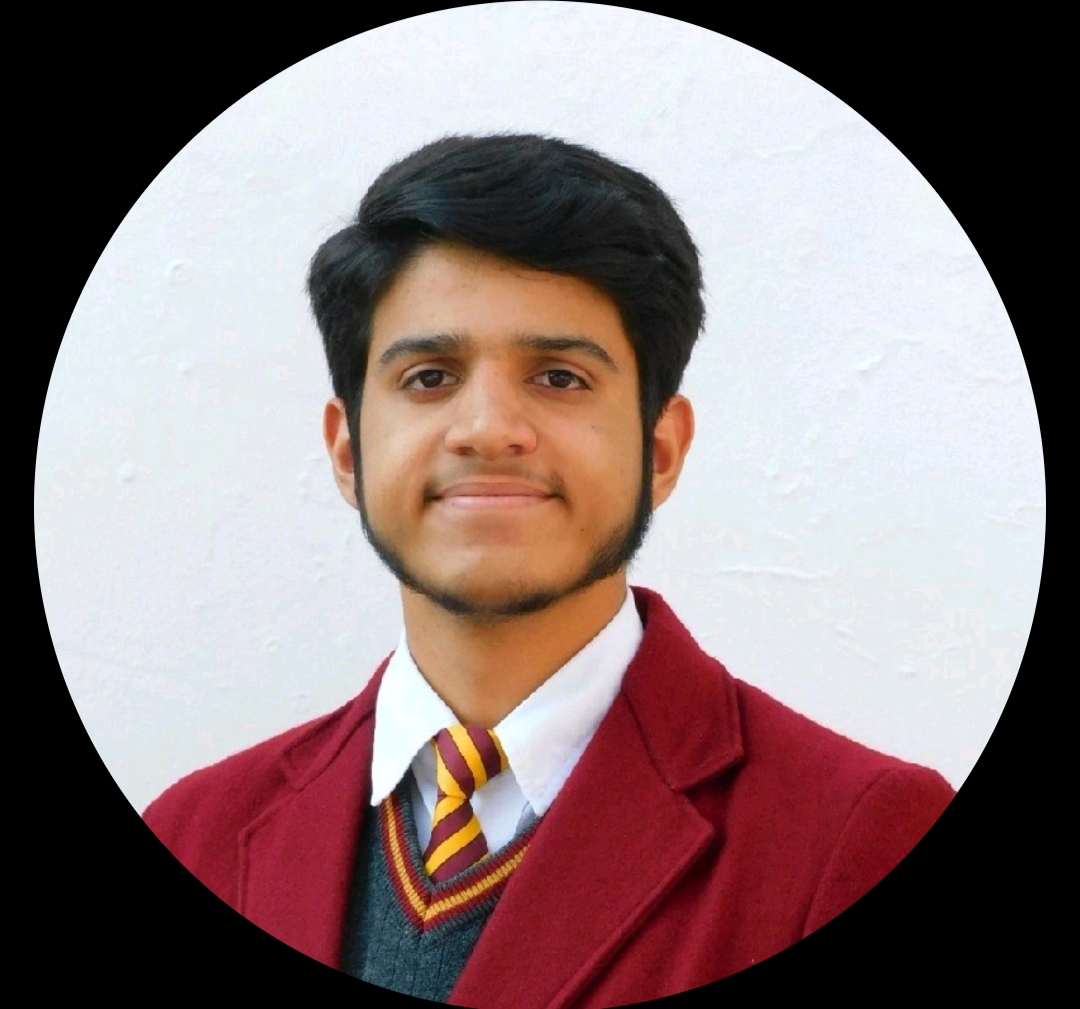
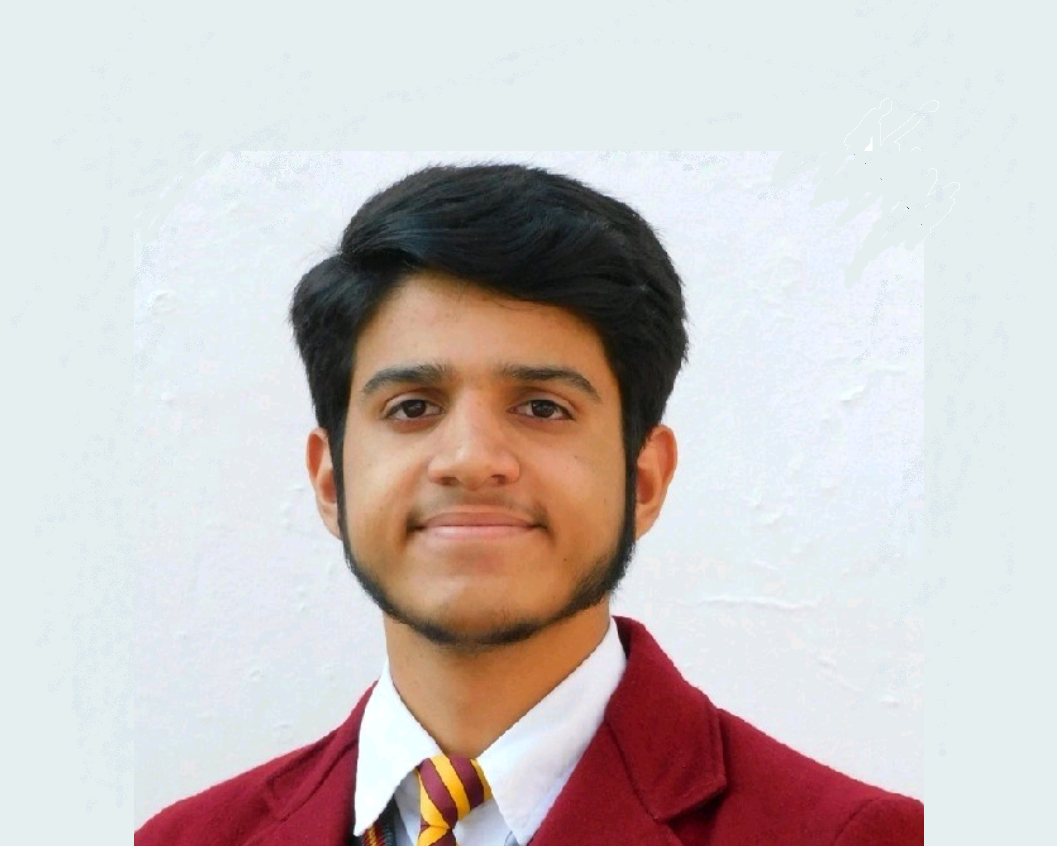
corrections

diff --git a/Team Page/team-2k20.html b/Team Page/team-2k20.html
@@ -953,7 +953,7 @@
                             </div>
                             <div class="content1">
                               <div class="detail">
-                                <h2>Utkarsh Chauhan<br /><span>Executive Member</span></h2>
+                                <h2>Nikita Silu<br /><span>Executive Member</span></h2>
                                 <ul class="sci">
                                   <li>
                                     <a href="https://github.com/Nikita-silu"><i class="fa fa-github"></i></a>
@@ -1127,11 +1127,11 @@
 
                             <div class="cardz">
                               <div class="img-bx">
-                                <img src="assets\team_images\Priyanshu sharma.png" alt="img" />
+                                <img src="assets\team_images\Priyanshu sharma.jpeg" alt="img" />
                               </div>
                               <div class="content1">
                                 <div class="detail">
-                                  <h2>Priyanshi Lakhotia<br /><span>Executive Member</span></h2>
+                                  <h2>Priyanshu Sharma<br /><span>Executive Member</span></h2>
                                   <ul class="sci">
                                     <li>
                                       <a href="https://github.com"><i class="fa fa-github"></i></a>

diff --git a/index.html b/index.html
@@ -802,7 +802,7 @@
 									<div class="card-flyer">
 										<div class="text-box">
 											<div class="image-box">
-												<img src="./Home-files/assets/Dr.Sandeep.JPG" alt=""
+												<img src="./Home-files/assets/Dr.Sandeep2.JPG" alt=""
 													style="background-size: cover;object-fit:cover; height:195px; width: 100%">
 											</div>
 											<div class="text-container">
